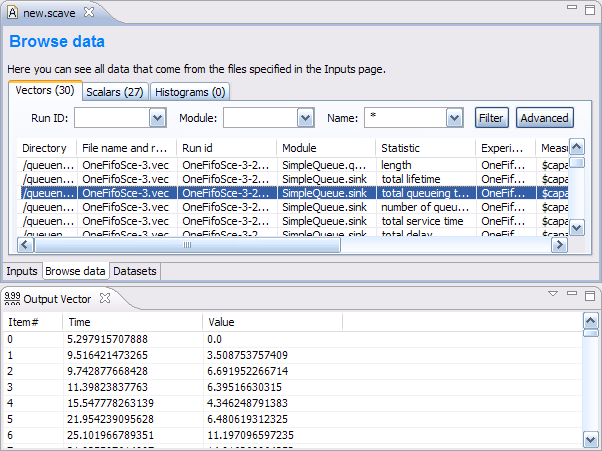
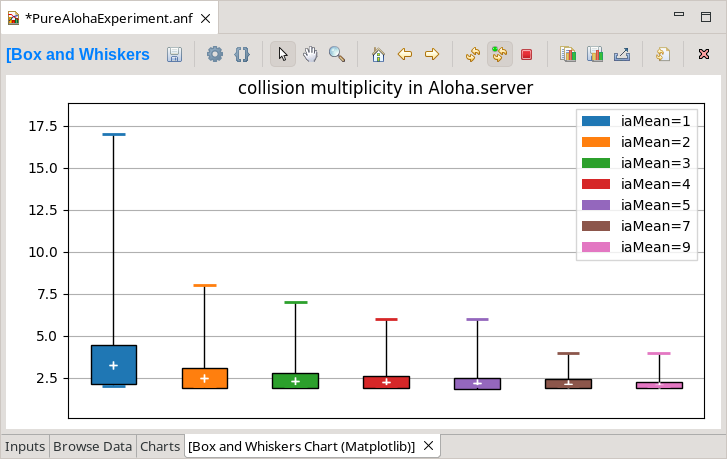
IDE Overview updated from similar file in the omnetpp repo

diff --git a/documentation/ide-overview/index.md b/documentation/ide-overview/index.md
@@ -295,105 +295,88 @@ search for free text, bookmarks, and special navigation options such as
 "go to simulation time" or message arrival. The Event Log Table supports
 the same filtering as the Sequence Chart.
 
-## Scave (Result Analysis)
 
-Scave is the result analysis tool of OMNeT++ and its task is to help
-the user process and visualize simulation results saved into vector and
-scalar files. Scave is designed so that the user can work equally well
-on the output of a single simulation run (one or two files) and the
-result of simulation batches (which may be several hundred files,
-possibly in multiple directories). Ad-hoc browsing of the data is
-supported in addition to systematic and repeatable processing. With the
-latter, all processing and charts are stored as “recipes”. For example,
-if simulations need to be re-run due to a model bug or misconfiguration,
-existing charts do not need to be drawn all over again. Simply replacing
-the old result files with the new ones will result in the charts being
-automatically displayed with the new data.
+## Result Analysis
 
-Scave is implemented as a multi-page editor. What the editor edits is
-the “recipe,” which includes what files to take as inputs, what data to
-select from them, what (optional) processing to apply, and what kind of
-charts to create from them. The pages (tabs) of the editor roughly
-correspond to these steps. You will see that Scave is much more than
-just a union of the OMNeT++ 3.x Scalars and Plove tools.
+Simulations record their results into *vector* (for time series data) and *scalar* files (for scalars, histograms,
+statistical summaries, etc). These result files can be browsed and analyzed in the Python-powered Analysis Tool
+in the IDE. The Analysis Tool works equally well on the output of a single simulation run and the output from
+parameter studies or simulation batches which may be several hundred files, possibly in multiple directories.
 
 {: .captioned_image}
 ![](pictures/img18.png){: .materialboxed}
 *Specifying input files for data analysis*
 
-The first page displays the result files that serve as input for the
-analysis. The upper half specifies what files to select, by explicit
-filenames or by wildcards. The lower half shows what files actually
-matched the input specification and what runs they contain. Note that
-OMNeT++ result files contain a unique run ID and several metadata
-annotations in addition to the actual recorded data. The third tree
-organizes simulation runs according to their
-experiment—measurement—replication labels.
-
-The underlying assumption is that users will organize their
-simulation-based research into various “experiments”. An experiment will
-consist of several “measurements”, which are typically (but not
-necessarily) simulations done with the same model but with different
-parameter settings; that is, the user will explore the parameter space
-with several simulation runs. To gain statistical confidence in the
-results, each measurement will be possibly repeated several times with
-different random number seeds. It is easy to set up such scenarios with
-the improved ini files of OMNeT++. Then, the
-experiment-measurement-replication labels will be assigned more-or-less
-automatically – please refer to the Inifile document (“Configuring
-Simulations in OMNeT++”) for more discussion.
+The first page in the editor is where the user can select input files for analysis. It lets the user edit a set of
+file name patterns or directory names that specify which result files to load. When the IDE expands the patterns,
+it displays the list of matched files under each one. The contents of files are also displayed in a tree structure.
 
 {: .captioned_image}
 ![](pictures/img19.png){: .materialboxed}
-*Browsing vector and scalar data generated by the simulation*
+*Browsing simulation results*
 
-The second page displays results (vectors, scalars, and histograms) from
-all files in tables and lets the user browse them. Results can be sorted
-and filtered. Simple filtering is possible with combo boxes, or when
-that is not enough, the user can write arbitrarily complex filters using
-a generic pattern matching expression language. Selected or filtered
-data can be immediately plotted, or remembered in named datasets
-*for further processing.*
+The second page of the Analysis editor displays results (parameters, scalars, histograms, and vectors) from all files in
+tables and lets the user browse them. Results can be sorted and filtered. Simple filtering is possible with combo boxes,
+or when that is not enough, the user can write filter expressions in a generic pattern-matching expression
+language. Selected or filtered data can be immediately plotted.
 
 {: .captioned_image}
 ![](pictures/img20.png){: .materialboxed}
-*Defining datasets to be analyzed*
+*Managing charts in the analysis*
 
-It is possible to define reusable datasets that are basically recipes on
-how to select and process data received from the simulation. You can add
-selection and data processing nodes to a dataset. Chart drawing is
-possible at any point in the processing tree.
+The third page displays the charts created during the analysis as icons. Charts can be selected, reordered by dragging,
+copied, pasted, renamed, deleted, opened, etc.
+
+New charts are selected from a Chart Gallery, which contains a set of pre-defined charts for the most frequent needs.
+Charts are backed by Python scripts, which use the Pandas DataFrame as the central data structure. The user can freely
+edit the script of a chart, and can also save the result into the Chart Gallery for reuse as a new chart type.
+Charts are configured by dialogs that let the user select the data to be plotted, item colors, line types, markers,
+axis titles and more. (These settings are stored as chart *properties* that the script can access and take into account.)
+Plots are drawn either with the Matplotlib library or using the built-in plotting capabilities of the IDE.
+
+Since charts select their input from the result files using a filter expression, existing charts do not need to be re-created
+when the simulations are re-run -- they will automatically update and display the new data.
 
 {: .captioned_image}
 ![](pictures/img21.png){: .materialboxed}
 *A Line Chart*
 
-Line charts are typically drawn from time-series data stored in vector
-files. Pre-processing of the data is possible in the dataset. The line
-chart component can be configured freely to display the vector data
-according to your needs.
+Line charts are typically drawn from time series data stored in vector files. Pre-processing of the data is possible in
+the script. The line chart component can be configured freely to display the vector data according to your needs.
 
 {: .captioned_image}
 ![](pictures/img22.png){: .materialboxed}
 *A Bar Chart*
 
-Bar charts are created from scalar results and histograms. Relevant data
-can be grouped and displayed via the Bar chart component. Colors, chart
-type, and other display attributes can be set on the component.
+Bar charts are created from scalar results or scalar statistics of vectors or histograms. Relevant data can be grouped,
+and several display attributes can be set on the component.
 
 {: .captioned_image}
 ![](pictures/img23.png){: .materialboxed}
-*Output Vector View*
+*A Box and Whiskers Chart*
 
-The Output Vector View can be used to inspect the raw numerical data
-when required. It can show the original data read from the vector file,
-or the result of a computation. The user can select a point on the line
-chart or a vector in the Dataset View and its content will be displayed.
+This chart is just one example of the many types of charts that can be made using the integrated support for Matplotlib.
+It offers dozens of plot types out of the box, endless customizations, and proven high-quality output.
 
 {: .captioned_image}
 ![](pictures/img24.png){: .materialboxed}
-*Dataset View*
+*Chart Properties Dialog*
 
-The Dataset View is used to show the result items contained in the
-dataset. The content of the view corresponds to the state of the dataset
-after the selected processing is performed.
+Charts have a set of properties that define their behavior and looks. These properties can be edited in a configuration
+dialog. For many input fields, autocompletion and smart suggestions are available.
+
+{: .captioned_image}
+![](pictures/img25.png){: .materialboxed}
+*Chart Script Editor*
+
+With the embedded code editor, users are free to make any changes to the Python scripts powering each chart.
+The integrated editor is that of the PyDev project. It provides syntax highlighting, code navigation features, helpful
+tooltips, and code completion suggestions.
+
+{: .captioned_image}
+![](pictures/img26.png){: .materialboxed}
+*Output Vector View*
+
+The Output Vector View can be used to inspect the raw numerical data when required. The user can select a vector on the
+Browse Data Page, and its content will be displayed here.
+
